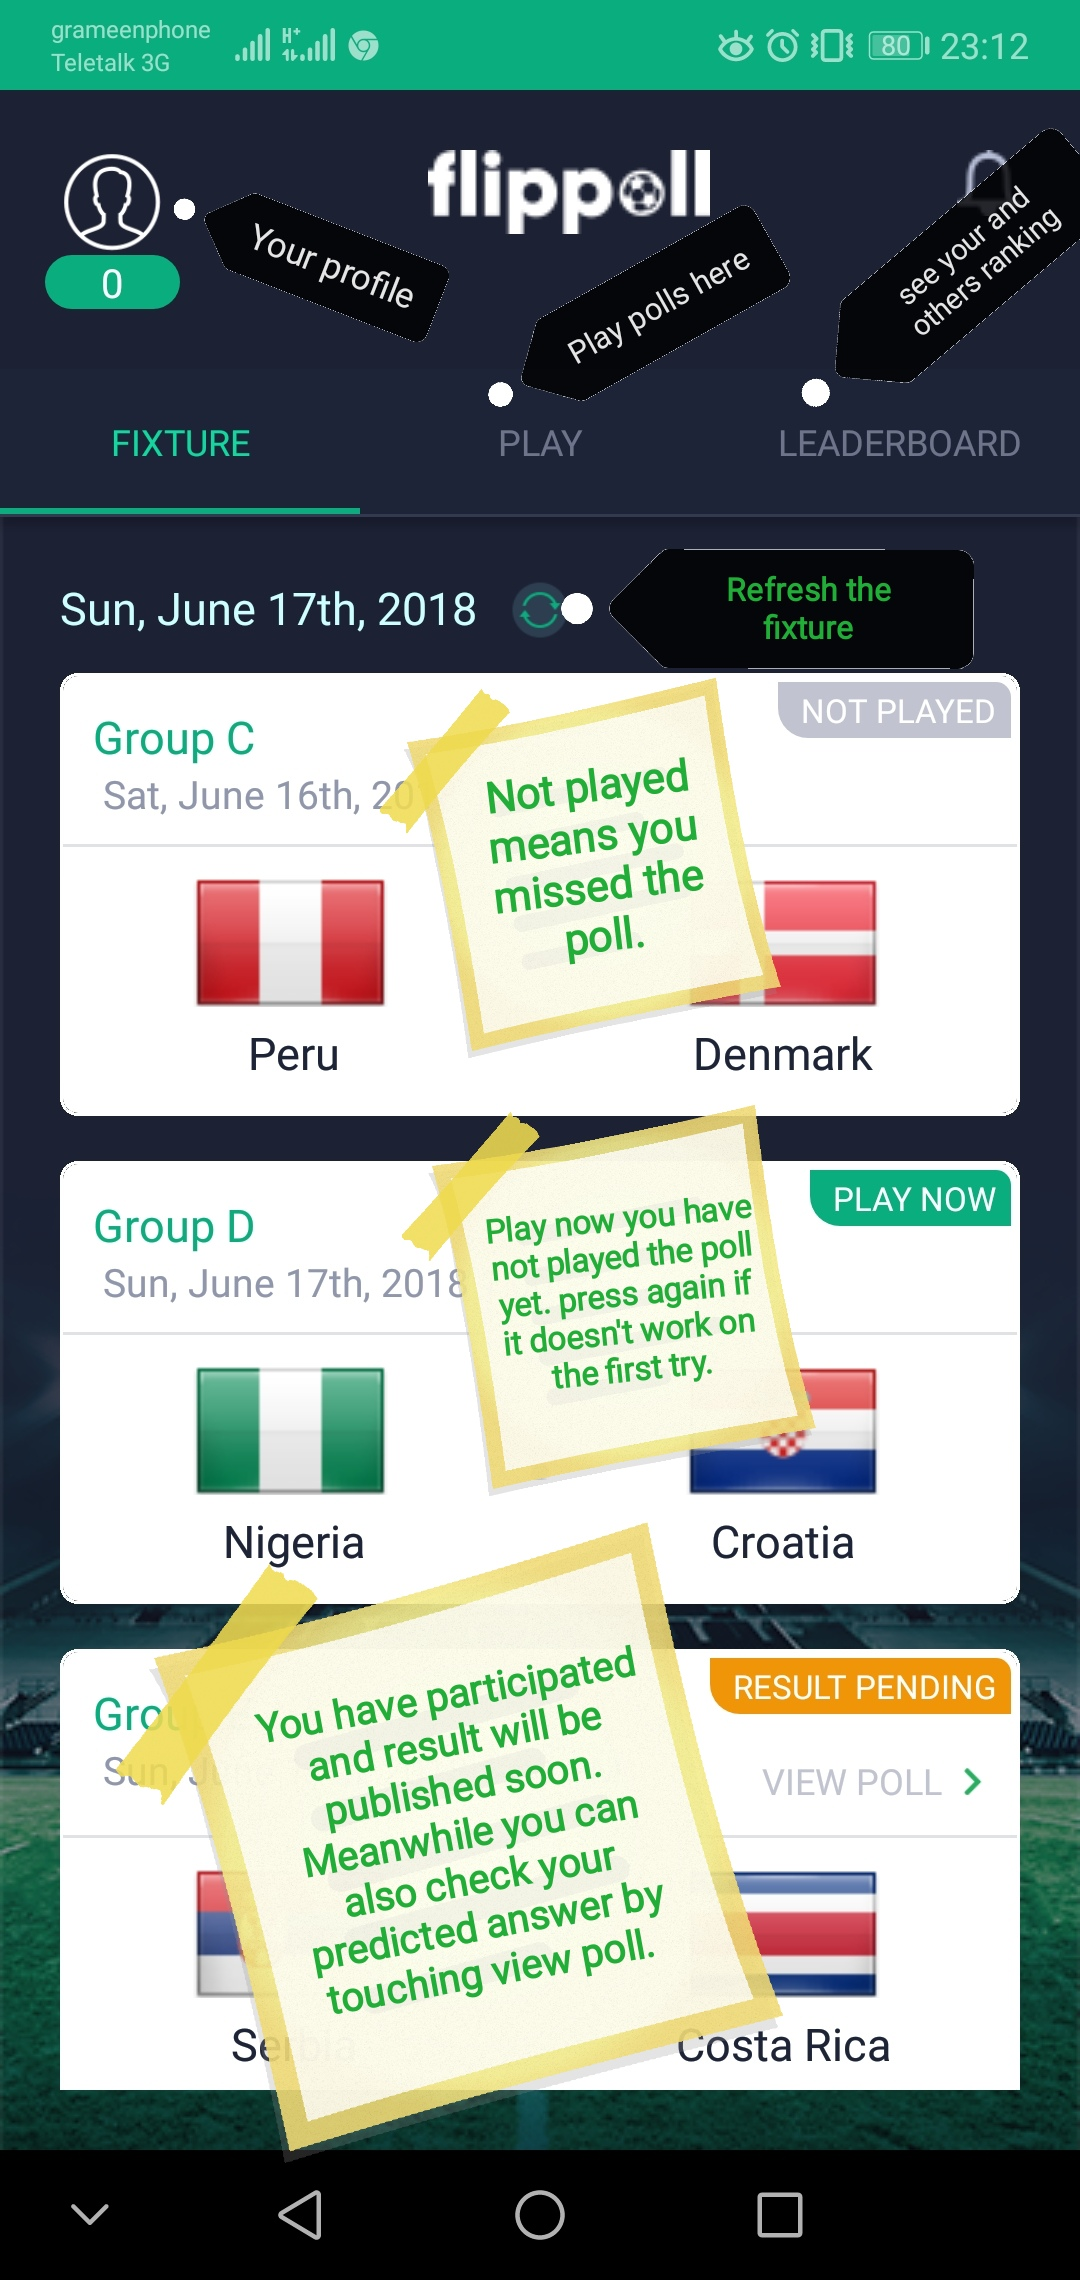
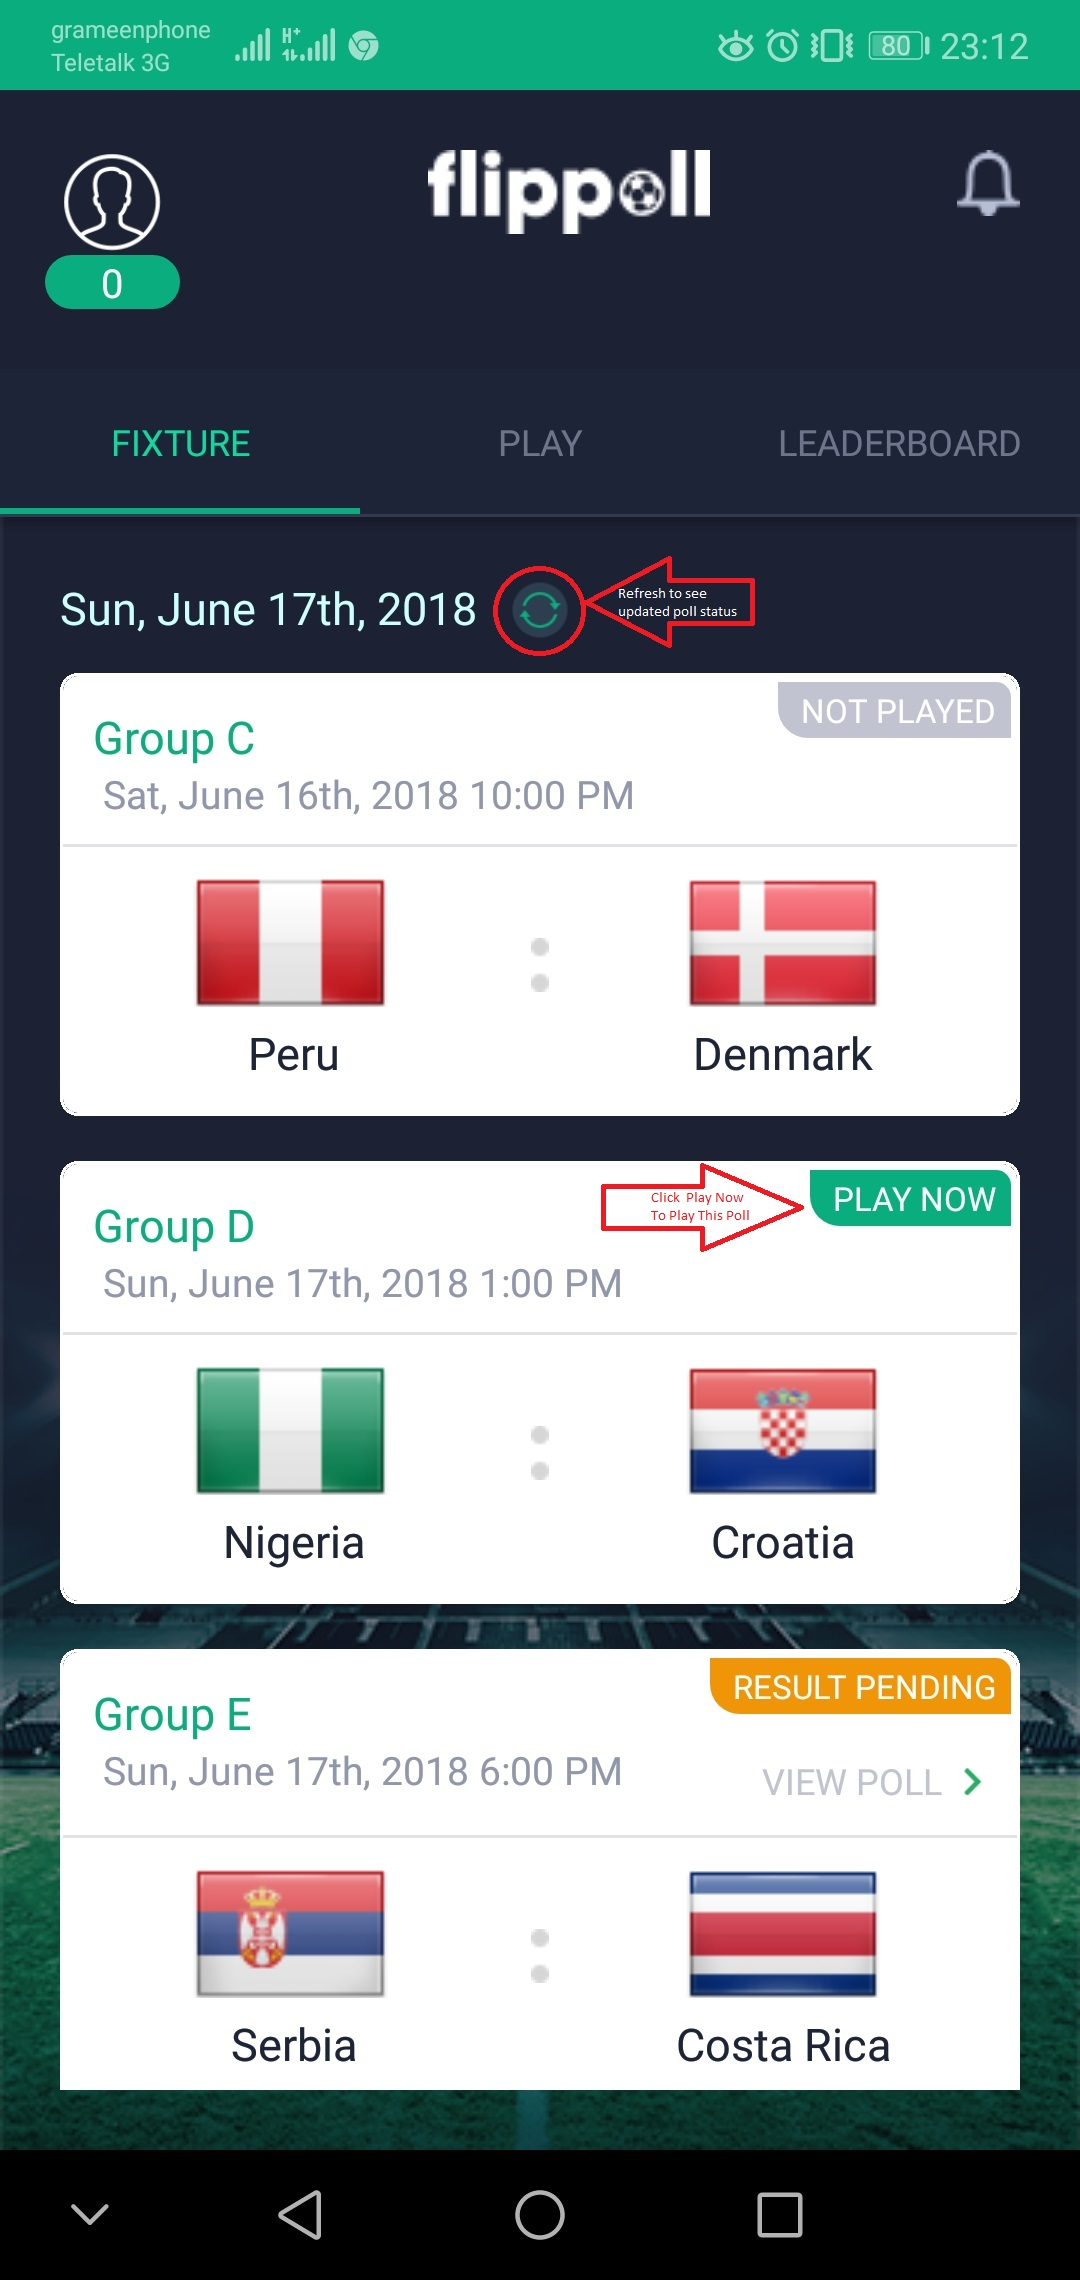
new pic added

diff --git a/index.html b/index.html
@@ -105,35 +105,50 @@
 
     <!-- Full-width images with number and caption text -->
     <div class="mySlides fade">
-        <div class="numbertext">1 / 6</div>
+        <div class="numbertext">1 / 9</div>
         <img src="images/1.jpg" width="400px;">
         <div class="text">Home</div>
     </div>
 
     <div class="mySlides fade">
-        <div class="numbertext">2 / 6</div>
+        <div class="numbertext">2 / 9</div>
         <img src="images/2.jpg" width="400px;">
         <div class="text">Login</div>
     </div>
     <div class="mySlides fade">
-        <div class="numbertext">3 / 6</div>
+        <div class="numbertext">3 / 9</div>
         <img src="images/3.jpg" width="400px;">
         <div class="text">Sign Up</div>
     </div>
     <div class="mySlides fade">
-        <div class="numbertext">4 / 6</div>
+        <div class="numbertext">4 / 9</div>
         <img src="images/4.jpg" width="400px;">
         <div class="text">Fixture</div>
     </div>
     <div class="mySlides fade">
-        <div class="numbertext">5 / 6</div>
+        <div class="numbertext">5 / 9</div>
         <img src="images/5.jpg" width="400px;">
         <div class="text">Play - Team Selection</div>
     </div>
     <div class="mySlides fade">
-        <div class="numbertext">6 / 6</div>
+        <div class="numbertext">6 / 9</div>
         <img src="images/6.jpg" width="400px;">
         <div class="text">Play - Goal Selection</div>
+    </div>
+    <div class="mySlides fade">
+        <div class="numbertext">7 / 9</div>
+        <img src="images/7.jpg" width="400px;">
+        <div class="text">Fixture - Refresh</div>
+    </div>
+    <div class="mySlides fade">
+        <div class="numbertext">8 / 9</div>
+        <img src="images/8.jpg" width="400px;">
+        <div class="text">Fixture - Refresh</div>
+    </div>
+    <div class="mySlides fade">
+        <div class="numbertext">9/ 9</div>
+        <img src="images/9.jpg" width="400px;">
+        <div class="text">Fixture - Refresh</div>
     </div>
 
 
